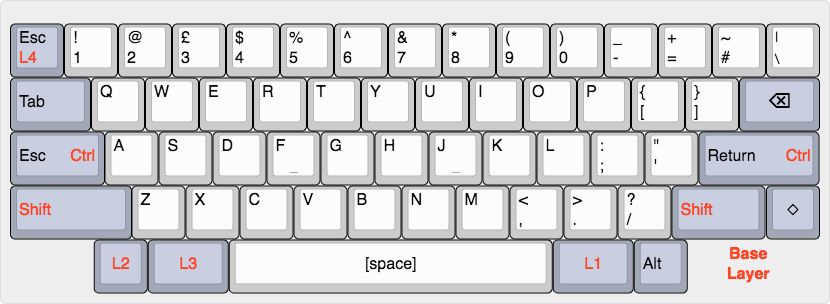
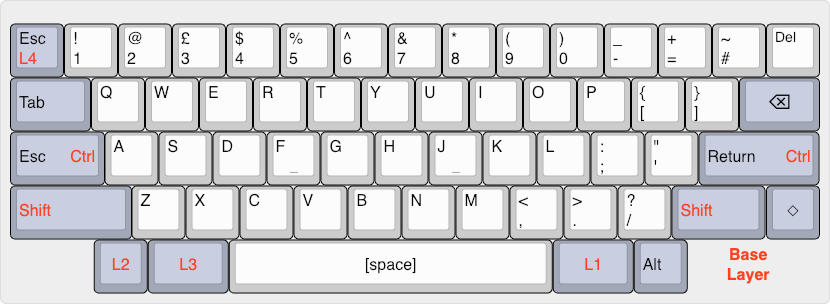
Make the top left key a delete as do not use |\ in that location.

diff --git a/keyboard/hhkb/keymap_uk.c b/keyboard/hhkb/keymap_uk.c
@@ -51,7 +51,7 @@ const uint8_t PROGMEM keymaps[][MATRIX_ROWS][MATRIX_COLS] = {
      *       `-------------------------------------------'
      */
     KEYMAP( \
-         FN3,    1, FN22,    3,    4,    5,    6,    7,    8,    9,    0, MINS,  EQL, NUHS, NUBS,\
+         FN3,    1, FN22,    3,    4,    5,    6,    7,    8,    9,    0, MINS,  EQL, NUBS,  DEL,\
          TAB,    Q,    W,    E,    R,    T,    Y,    U,    I,    O,    P, LBRC, RBRC, BSPC,      \
          FN4,    A,    S,    D,    F,    G,    H,    J,    K,    L, SCLN, FN23,  FN5,            \
         LSFT,    Z,    X,    C,    V,    B,    N,    M, COMM,  DOT, SLSH, RSFT, LGUI,            \
